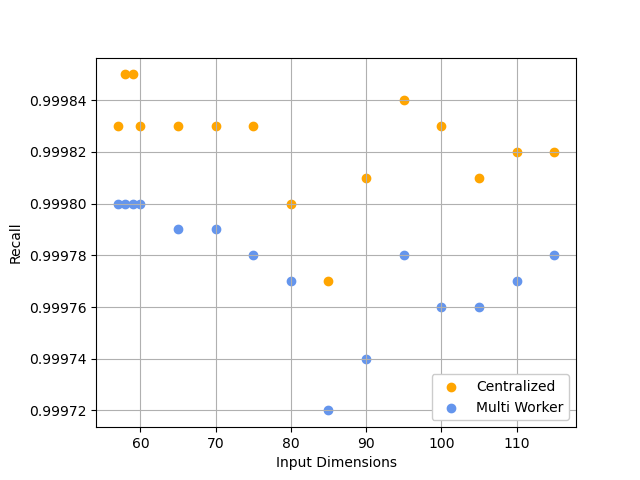
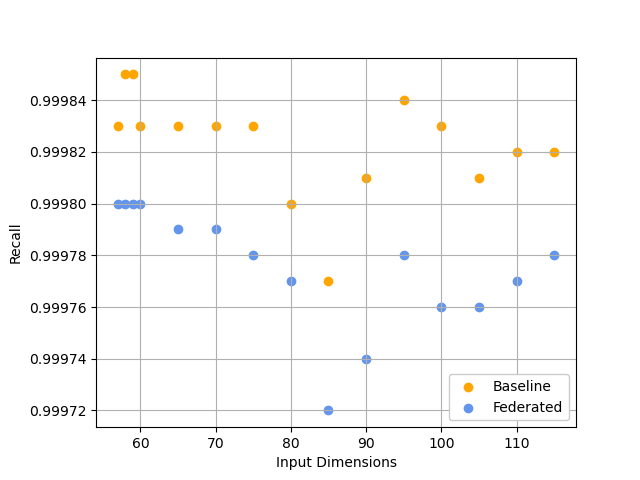
quick updated to some figures, replaced the multi worker titleings with federated, replaced the centralized titlings with baseline, per requesting

Changed region(s): [[0.6875, 0.7812, 0.875, 0.875]]

diff --git a/anomaly-detection/MatpltlibGen/figMaker.py b/anomaly-detection/MatpltlibGen/figMaker.py
@@ -89,7 +89,7 @@ def precision_plt(plt):
     precision = plt
     precision.style.use("ggplot")
     precision.grid()
-    precision.title(f"Centralized {title} for different number of features")
+    precision.title(f"Baseline {title} for different number of features")
     precision.xlabel("Input Dimension")
     precision.ylabel(f"{title}")
     xlistp = xList
@@ -106,7 +106,7 @@ def recall_plt(plt):
     recall = plt
     recall.style.use("ggplot")
     recall.grid()
-    recall.title(f"Centralized {title} for different number of features")
+    recall.title(f"Baseline {title} for different number of features")
     recall.xlabel("Epochs")
     recall.ylabel(f"{title}")
     xlistr = xList
@@ -123,7 +123,7 @@ def f1_plt(plt):
     f1 = plt
     f1.style.use("ggplot")
     f1.grid()
-    f1.title(f"Centralized {title} for different number of features")
+    f1.title(f"Baseline {title} for different number of features")
     f1.xlabel("Epochs")
     f1.ylabel(f"{title}")
     xlistf = xList
@@ -140,11 +140,11 @@ def accuracy_avg_bar(plt):
     multi_list = multiAcc
     cent_avg = np.average(cent_list)
     multi_avg = np.average(multi_list)
-    objects = ("Centralized", "Multi Worker")
+    objects = ("Baseline", "Federated")
     y_pos = np.arange(len(objects))
     avg_bar = plt
     avg_bar.style.use("default")
-    avg_bar.ylim(90, 95)
+    avg_bar.ylim(93, 94.5)
     avg_bar.bar(y_pos, [cent_avg * 100, multi_avg * 100], align="center", color=("orange", "cornflowerblue"))
     avg_bar.xticks(y_pos, objects)
     avg_bar.ylabel("Average Accuracy")
@@ -165,10 +165,10 @@ def accuracy_plt_multi(plt):
     xlista = xList[half:]
     ylista = centAcc[half:]
     ylistmulti = multiAcc[half:]
-    # acc.plot(xlista, ylista, label="Centralized")
-    # acc.plot(xlista, ylistmulti, label="Multi Worker")
-    acc.scatter(xlista, ylista, c="orange", label="Centralized")
-    acc.scatter(xlista, ylistmulti, c="cornflowerblue", label="Multi Worker")
+    # acc.plot(xlista, ylista, label="Baseline")
+    # acc.plot(xlista, ylistmulti, label="Federated")
+    acc.scatter(xlista, ylista, c="orange", label="Baseline")
+    acc.scatter(xlista, ylistmulti, c="cornflowerblue", label="Federated")
     acc.legend(loc="lower right", framealpha=1.0, facecolor='white')
     acc.savefig(f"comparison_scatter_acc_e50_lr001_bs128.png")
     print("cent accuracy")
@@ -186,10 +186,10 @@ def precision_plt_multi(plt):
     xlistp = xList
     ylistp = centPrecision
     ylistmulti = multiPrecision
-    # precision.plot(xlistp,  ylistp, label="Centralized")
-    # precision.plot(xlistp, ylistmulti, label="Multi Worker")
-    precision.scatter(xlistp, ylistp, c="orange", label="Centralized")
-    precision.scatter(xlistp, ylistmulti, c="cornflowerblue", label="Multi Worker")
+    # precision.plot(xlistp,  ylistp, label="Baseline")
+    # precision.plot(xlistp, ylistmulti, label="Federated")
+    precision.scatter(xlistp, ylistp, c="orange", label="Baseline")
+    precision.scatter(xlistp, ylistmulti, c="cornflowerblue", label="Federated")
     precision.legend(loc="lower right", framealpha=1.0, facecolor='white')
     precision.savefig(f"comparison_scatter_precision_e50_lr0001_bs128.png")
     print("multi precision")
@@ -208,12 +208,12 @@ def recall_plt_multi(plt):
     xlistr = xList[half:]
     ylistr = centRecall[half:]
     ylistmulti = multiRecall[half:]
-    # recall.plot(xlistr, ylistr, label="Centralized")
-    # recall.plot(xlistr, ylistmulti, label="Multi Worker")
+    # recall.plot(xlistr, ylistr, label="Baseline")
+    # recall.plot(xlistr, ylistmulti, label="Federated")
     # this line will shift the plot away from the left side by 0.15
     recall.subplots_adjust(left=0.15)
-    recall.scatter(xlistr, ylistr, c="orange", label="Centralized")
-    recall.scatter(xlistr, ylistmulti, c="cornflowerblue", label="Multi Worker")
+    recall.scatter(xlistr, ylistr, c="orange", label="Baseline")
+    recall.scatter(xlistr, ylistmulti, c="cornflowerblue", label="Federated")
     recall.legend(loc="lower right", framealpha=1.0, facecolor='white')
     recall.savefig(f"comparison_scatter_recall_e50_lr0001_bs128.png")
     print("Multi recall")
@@ -232,10 +232,10 @@ def f1_plt_multi(plt):
     xlistf = xList[half:]
     ylistf = centF1[half:]
     ylistmulti = multiF1[half:]
-    # f1.plot(xlistf, ylistf, label="Centralized")
-    # f1.plot(xlistf, ylistmulti, label="Multi Worker")
-    f1.scatter(xlistf, ylistf, c="orange", label="Centralized")
-    f1.scatter(xlistf, ylistmulti, c="cornflowerblue", label="Multi Worker")
+    # f1.plot(xlistf, ylistf, label="Baseline")
+    # f1.plot(xlistf, ylistmulti, label="Federated")
+    f1.scatter(xlistf, ylistf, c="orange", label="Baseline")
+    f1.scatter(xlistf, ylistmulti, c="cornflowerblue", label="Federated")
     f1.legend(loc="lower right", framealpha=1.0, facecolor='white')
     f1.savefig(f"comparison_scatter_f1_e50_lr0001_bs128.png")
     print("Multi F-measure")
@@ -247,7 +247,7 @@ def f1_plt_multi(plt):
     title = "Accuracy"
     acc = plt
     acc.grid()
-    acc.title(f"Multi Worker {title} for different number of features")
+    acc.title(f"Federated {title} for different number of features")
     acc.xlabel("Input Dimensions")
     acc.ylabel(f"{title}")
     xlista = xList
@@ -268,7 +268,7 @@ def pandas_dataframe_print(plt):
     ax.axis('tight')
 
     df = pd.DataFrame([multiAcc, centAcc])
-    rowLabel = ("mutli worker Accuracy", "centralized Accuracy")
+    rowLabel = ("mutli worker Accuracy", "Baseline Accuracy")
     ax.table(cellText=df.values, cellLoc='center', colLabels=xList, rowLabels=rowLabel, loc='center')
     fig.tight_layout()
     plt.savefig(f"data_acc_e50_lr001_bs128_table.pdf")
@@ -282,7 +282,7 @@ def main(argv):
     plt.style.use("ggplot")
 
     matplotlib.use("pdf")
-    accuracy_avg_bar(plt)
+    # accuracy_avg_bar(plt)
     # accuracy_plt_multi(plt)
     # f1_plt_multi(plt)
     # recall_plt_multi(plt)
